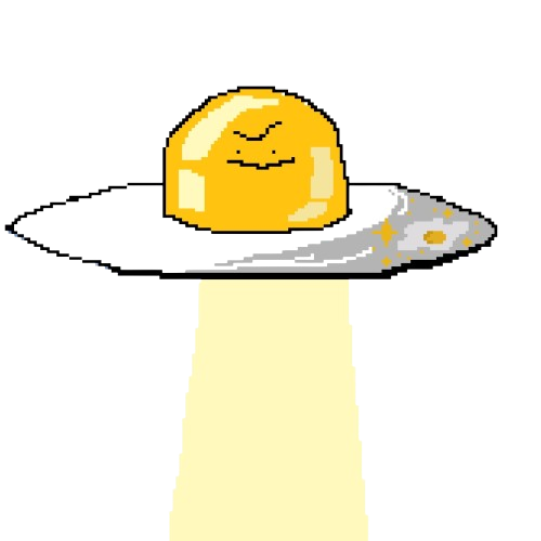
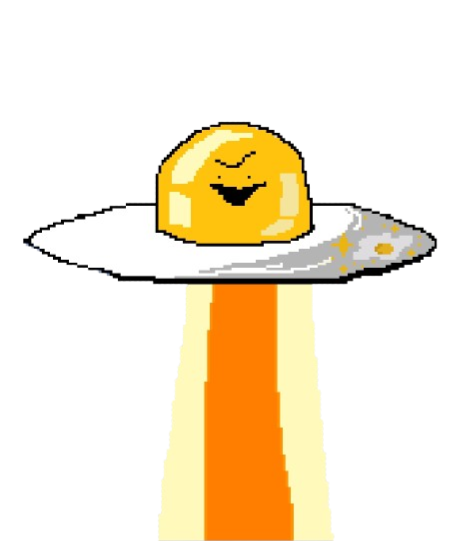
animated sunnyside up, and changed coins to a png. Additionally created the png for multiple new characters such as the Egg Knight and Deviled Egg and the alternate art of preexisting ones.

Changed region(s): [[0.122, 0.1479, 0.976, 1.0], [0.0, 0.3549, 0.244, 0.4732]]

diff --git a/main.py b/main.py
@@ -78,6 +78,10 @@ resize_sunnyside_up_2 = pygame.transform.scale(pygame.image.load("graphics/egg-e
 
 sunnyside_up_list = [resize_sunnyside_up_1, resize_sunnyside_up_2]
 sunnyside_up_index = 0.0
+
+# Load coin asset
+coin_surf = pygame.image.load("graphics/collectibles/coin.png").convert_alpha()
+
 obstacle_rect_list = []
 powerup_rect_list = []  
 
@@ -121,8 +125,7 @@ def obstacle_movement(obstacle_list):
             elif active_obs.bottom == 210:
                 screen.blit(sunnyside_up_surf, active_obs)
             else:
-                pygame.draw.circle(screen, "Gold", active_obs.center, 15)
-                pygame.draw.circle(screen, "White", (active_obs.center[0] - 4, active_obs.center[1] - 4), 4)
+                screen.blit(coin_surf, active_obs)
 
         obstacle_list = [obs for obs in obstacle_list if obs.right > 0]
         return obstacle_list
@@ -199,9 +202,7 @@ while running:
                 if spawn_choice == 'sunnyside_up':
                     obstacle_rect_list.append(sunnyside_up_list[0].get_rect(midbottom=(randint(900, 1100), 210)))
                 elif spawn_choice == 'coin':
-                    coin_rect = pygame.Rect(0, 0, 30, 30)
-                    coin_rect.midbottom = (randint(900, 1100), 150)
-                    obstacle_rect_list.append(coin_rect)
+                    obstacle_rect_list.append(coin_surf.get_rect(midbottom=(randint(900, 1100), 150)))
                 else:
                     obstacle_rect_list.append(egg_list[0].get_rect(midbottom=(randint(900, 1100), GROUND_Y)))
 
@@ -271,7 +272,7 @@ while running:
         if egg_index >= len(egg_list): egg_index = 0
         egg_surf = egg_list[int(egg_index)]
         
-        sunnyside_up_index += 0.2
+        sunnyside_up_index += 0.05
         if sunnyside_up_index >= len(sunnyside_up_list): sunnyside_up_index = 0
         sunnyside_up_surf = sunnyside_up_list[int(sunnyside_up_index)]
 
